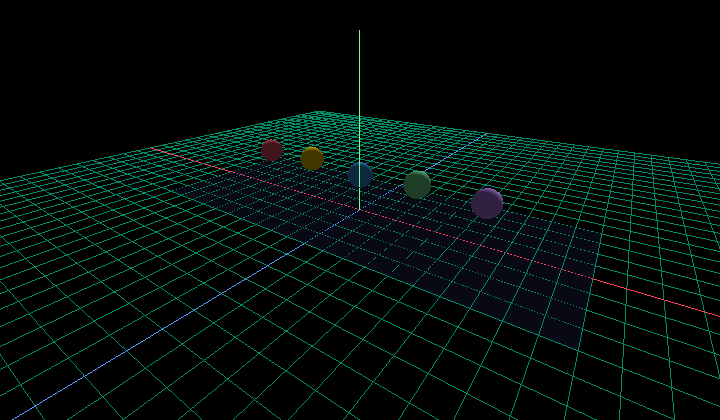
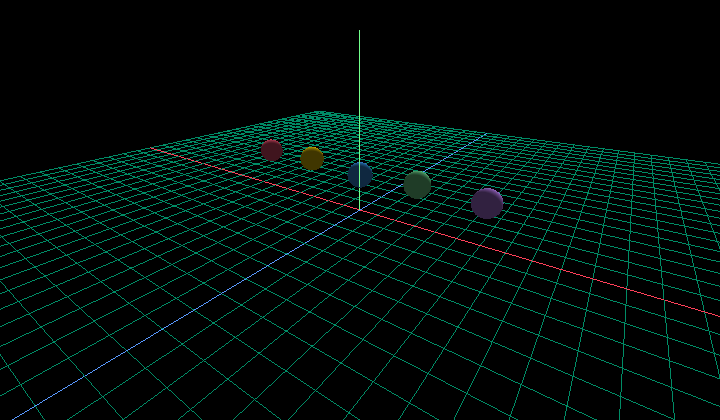
feat(render): top-right HUD overlay + clean up demo backdrops
HUD
- New `circlelib/render/hud.py`: a screen-space textured quad pinned
  to the upper-right corner. Pillow rasterises the text into a
  240x130 RGBA texture; the texture is reuploaded only when the
  rendered string actually changes. Falls back from system monospace
  fonts (Menlo / SFNSMono / Andale / DejaVuSansMono) to PIL's bitmap
  default when none are present.
- `run_window` now formats and pushes per-frame text:
      camera
      yaw    35.0
      pitch  25.0
      radius 18.00
      eye    (11.4,  8.5, 10.5)
      t      1.45 / 6.00
      fps    60.0
  The HUD draws after the scene with depth-test off and standard
  alpha blending. FPS uses a 60-frame moving average.

Anim demo backdrop cleanup
- The matrix-style ground grid is the renderer's signature. The
  per-demo Plane sat at the same y=0 and was z-fighting with the
  grid lines, so the grid blurred / vanished from camera-front
  angles. Removed the Plane line from all six anim demos:
      orbit / bars_sort / matrix_rotation
      sine_wave / bouncing_balls / car_flock
- Regenerated `docs/gallery_screenshots/*.png` to match.

Verify: pytest 63/63, scripts/verify.sh exits 0 across 12 examples.

Changed region(s): [[0.3056, 0.3714, 0.4583, 0.4643]]

diff --git a/circlelib/render/hud.py b/circlelib/render/hud.py
@@ -1,0 +1,140 @@
+"""Top-right HUD overlay rendered as a screen-space textured quad.
+
+Shows the orbit camera's `yaw`, `pitch`, `radius`, and `eye` plus the
+animation `t / duration` and a smoothed FPS reading. Text is rasterised
+with Pillow into a small RGBA texture; the texture is reuploaded only
+when the rendered text actually changes.
+"""
+
+from __future__ import annotations
+
+from pathlib import Path
+from typing import Optional
+
+import moderngl
+import numpy as np
+from PIL import Image, ImageDraw, ImageFont
+
+
+_HUD_VS = """
+#version 330
+in vec2 in_position;
+in vec2 in_uv;
+out vec2 v_uv;
+void main() {
+    gl_Position = vec4(in_position, 0.0, 1.0);
+    v_uv = in_uv;
+}
+"""
+
+_HUD_FS = """
+#version 330
+uniform sampler2D u_tex;
+in vec2 v_uv;
+out vec4 frag;
+void main() {
+    frag = texture(u_tex, v_uv);
+}
+"""
+
+_FONT_CANDIDATES = [
+    "/System/Library/Fonts/Menlo.ttc",
+    "/System/Library/Fonts/Monaco.ttf",
+    "/System/Library/Fonts/SFNSMono.ttf",
+    "/Library/Fonts/Andale Mono.ttf",
+    "/usr/share/fonts/truetype/dejavu/DejaVuSansMono.ttf",
+    "/usr/share/fonts/dejavu/DejaVuSansMono.ttf",
+]
+
+
+def _load_mono_font(size: int = 13):
+    for path in _FONT_CANDIDATES:
+        if Path(path).exists():
+            try:
+                return ImageFont.truetype(path, size)
+            except Exception:
+                continue
+    return ImageFont.load_default()
+
+
+class Hud:
+    WIDTH_PX = 240
+    HEIGHT_PX = 130
+    MARGIN_PX = 12
+
+    def __init__(self, ctx: moderngl.Context):
+        self.ctx = ctx
+        self._program = ctx.program(vertex_shader=_HUD_VS, fragment_shader=_HUD_FS)
+        self._font = _load_mono_font(13)
+
+        self._texture = ctx.texture((self.WIDTH_PX, self.HEIGHT_PX), 4)
+        self._texture.filter = (moderngl.LINEAR, moderngl.LINEAR)
+        self._cached_text: Optional[str] = None
+        # Pre-fill with blank panel so the first frame doesn't flash.
+        blank = Image.new(
+            "RGBA", (self.WIDTH_PX, self.HEIGHT_PX), (0, 0, 0, 160)
+        )
+        self._texture.write(blank.transpose(Image.FLIP_TOP_BOTTOM).tobytes())
+
+        # Quad VBO/IBO (positions written every frame because they
+        # depend on viewport size). 4 verts × 4 floats × 4 bytes.
+        self._vbo = ctx.buffer(reserve=4 * 4 * 4)
+        ibo_data = np.array([0, 1, 2, 0, 2, 3], dtype="u4").tobytes()
+        self._ibo = ctx.buffer(ibo_data)
+        self._vao = ctx.vertex_array(
+            self._program,
+            [(self._vbo, "2f 2f", "in_position", "in_uv")],
+            self._ibo,
+        )
+
+    def set_text(self, text: str) -> None:
+        if text == self._cached_text:
+            return
+        self._cached_text = text
+        img = Image.new(
+            "RGBA", (self.WIDTH_PX, self.HEIGHT_PX), (0, 0, 0, 170)
+        )
+        draw = ImageDraw.Draw(img)
+        # Header row in green; body rows lighter.
+        lines = text.splitlines()
+        y = 8
+        for i, line in enumerate(lines):
+            color = (0, 255, 200, 255) if i == 0 else (220, 235, 255, 255)
+            draw.text((10, y), line, fill=color, font=self._font)
+            y += 16
+        flipped = img.transpose(Image.FLIP_TOP_BOTTOM)
+        self._texture.write(flipped.tobytes())
+
+    def draw(self, fb_w: int, fb_h: int) -> None:
+        if fb_w <= 0 or fb_h <= 0:
+            return
+        m = self.MARGIN_PX
+        w = self.WIDTH_PX
+        h = self.HEIGHT_PX
+        # NDC coords for the panel pinned to the upper-right corner.
+        x_right = 1.0 - (m * 2.0 / fb_w)
+        x_left = x_right - (w * 2.0 / fb_w)
+        y_top = 1.0 - (m * 2.0 / fb_h)
+        y_bot = y_top - (h * 2.0 / fb_h)
+        verts = np.array(
+            [
+                [x_left, y_top, 0.0, 1.0],   # tl
+                [x_left, y_bot, 0.0, 0.0],   # bl
+                [x_right, y_bot, 1.0, 0.0],  # br
+                [x_right, y_top, 1.0, 1.0],  # tr
+            ],
+            dtype="f4",
+        )
+        self._vbo.write(verts.tobytes())
+        self._texture.use(location=0)
+        self._program["u_tex"].value = 0
+        # HUD draws on top of the scene without writing the depth buffer.
+        self.ctx.disable(moderngl.DEPTH_TEST)
+        self.ctx.enable(moderngl.BLEND)
+        self.ctx.blend_func = (
+            moderngl.SRC_ALPHA,
+            moderngl.ONE_MINUS_SRC_ALPHA,
+        )
+        self._vao.render(mode=moderngl.TRIANGLES, vertices=6)
+        self.ctx.disable(moderngl.BLEND)
+        self.ctx.enable(moderngl.DEPTH_TEST)

diff --git a/circlelib/render/window.py b/circlelib/render/window.py
@@ -8,12 +8,15 @@ frame with the current time (looped over the scene's duration).
 
 from __future__ import annotations
 
+import math
+from collections import deque
 from typing import List, Union
 
 import glfw
 import moderngl
 
 from circlelib.render.camera import OrbitCamera
+from circlelib.render.hud import Hud
 from circlelib.render.renderer import Renderer
 from circlelib.runtime.evaluator import CompiledScene, SceneNode
 
@@ -51,6 +54,7 @@ def run_window(
     window = _init_glfw(title, width, height)
     ctx = moderngl.create_context()
     renderer = Renderer(ctx)
+    hud = Hud(ctx)
 
     if isinstance(scene, CompiledScene):
         compiled = scene
@@ -64,6 +68,8 @@ def run_window(
 
     camera = OrbitCamera()
     start_time = glfw.get_time()
+    last_frame_time = start_time
+    fps_window: deque[float] = deque(maxlen=60)
 
     state = {"dragging": False, "last_x": 0.0, "last_y": 0.0}
 
@@ -96,14 +102,41 @@ def run_window(
         if fb_h == 0:
             glfw.poll_events()
             continue
+
+        now = glfw.get_time()
+        dt = now - last_frame_time
+        last_frame_time = now
+        if dt > 0:
+            fps_window.append(1.0 / dt)
+
+        t = 0.0
         if animated and compiled is not None:
-            elapsed = glfw.get_time() - start_time
+            elapsed = now - start_time
             t = elapsed % compiled.duration if compiled.duration > 0 else 0.0
             renderer.update(compiled(t))
+
         ctx.viewport = (0, 0, fb_w, fb_h)
         view = camera.view_matrix()
         proj = camera.projection_matrix(fb_w / fb_h)
         renderer.draw(view, proj)
+
+        eye = camera.eye()
+        fps = sum(fps_window) / len(fps_window) if fps_window else 0.0
+        if compiled is not None and compiled.is_animated:
+            t_line = f"t      {t:5.2f} / {compiled.duration:5.2f}"
+        else:
+            t_line = "t      static"
+        hud.set_text(
+            "camera\n"
+            f"yaw    {math.degrees(camera.yaw):6.1f}\n"
+            f"pitch  {math.degrees(camera.pitch):6.1f}\n"
+            f"radius {camera.radius:6.2f}\n"
+            f"eye    ({eye[0]:5.1f},{eye[1]:5.1f},{eye[2]:5.1f})\n"
+            f"{t_line}\n"
+            f"fps    {fps:6.1f}"
+        )
+        hud.draw(fb_w, fb_h)
+
         glfw.swap_buffers(window)
         glfw.poll_events()
 
